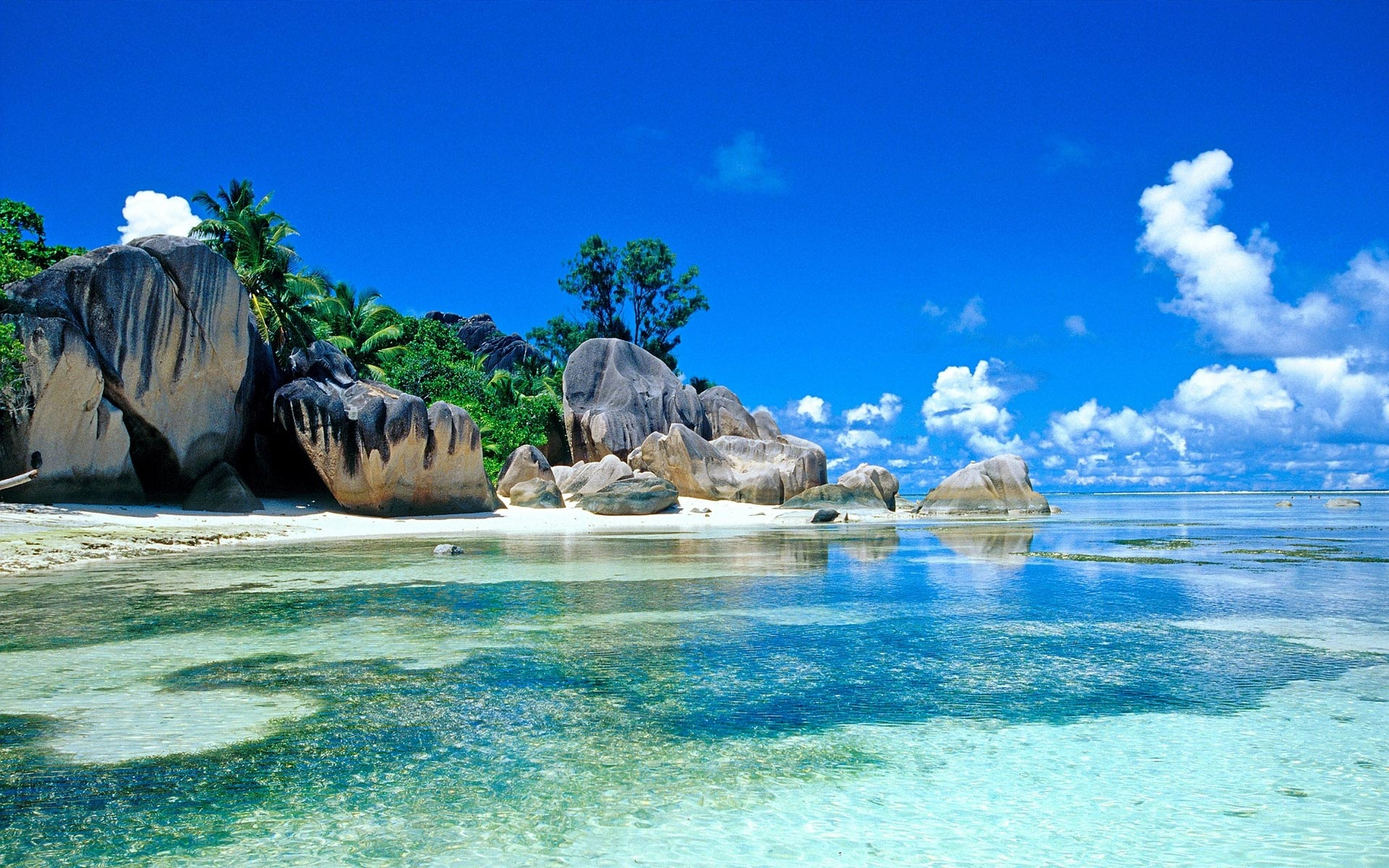
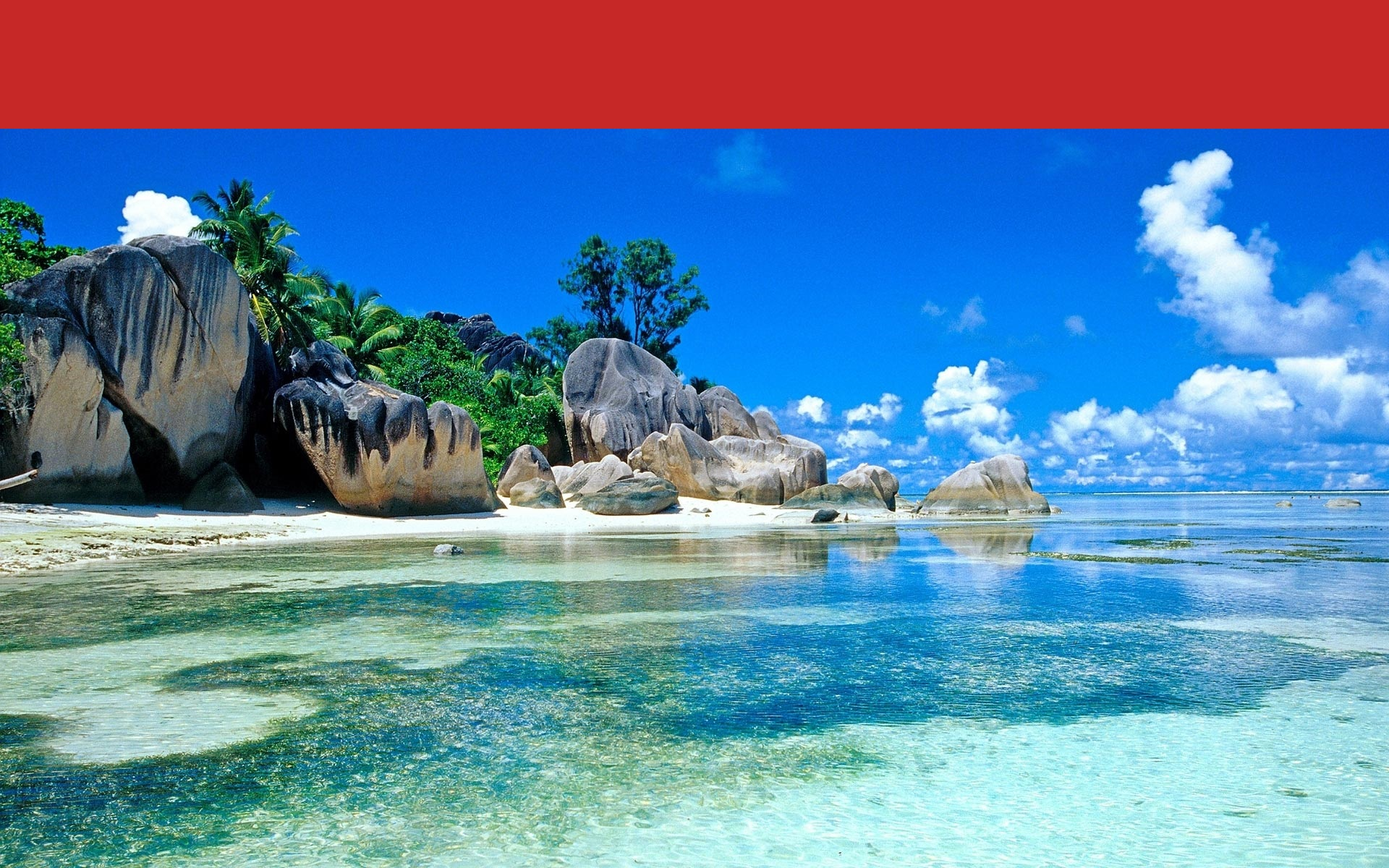
Add files via upload
Artículos añadidos, sección de comentarios terminada

Changed region(s): [[0.0, 0.0, 1.0, 0.1542]]

diff --git a/index.html b/index.html
@@ -20,10 +20,10 @@
           <img src="img/logo.png" alt="logo">
         </div>
         <div class="row buttons-nav col l10 m8 s7">
-            <a class="waves-effect waves-light btn-small">INICIO <i class="material-icons left tiny">home</i></a>
-            <a class="waves-effect waves-light btn-small">ESTUVE EN... <i class="material-icons left tiny">location_on</i></a>
-            <a class="waves-effect waves-light btn-small">MEJORES VIAJES <i class="material-icons left tiny">star</i></a>
-            <a class="waves-effect waves-light btn-small">RECOMENDACIONES <i class="material-icons left tiny">message</i></a>
+            <a class="waves-effect waves-light red darken-3 btn-small">INICIO <i class="material-icons left tiny">home</i></a>
+            <a class="waves-effect waves-light red darken-3 btn-small">ESTUVE EN... <i class="material-icons left tiny">location_on</i></a>
+            <a class="waves-effect waves-light red darken-3 btn-small">MEJORES VIAJES <i class="material-icons left tiny">star</i></a>
+            <a class="waves-effect waves-light red darken-3 btn-small">RECOMENDACIONES <i class="material-icons left tiny">message</i></a>
         </div>
         <div class="row titulo col l9 m8 s12">
           <h4>Viajando por el mundo</h4>
@@ -31,7 +31,7 @@
       </div>
     </div>
 
-    <div class="cuerpo row">
+    <div class="contenedor-secundario row">
       <div class="redes-sociales col l1 m1 hide-on-small-only">
         <a href="https://www.facebook.com/" class=" waves-effect waves-light"><img src="img/ico-facebook.png" alt="Facebook"></a>
         <a href="http://twitter.com/" class="waves-effect waves-light"><img src="img/ico-twitter.png" alt="Twitter"></a>
@@ -53,34 +53,129 @@
             <img class="z-depth-5" src="img/img-5.jpg" alt="Estatua de la libertad">
             <img class="z-depth-5" src="img/img-6.jpg" alt="La Casa de la Ópera en Sídney">
           </div>
-
+        </div>
+        <div class="contenedor-articulos row col l8 m8">
+          <div class="row articulo-1 card z-depth-4">
+            <div class="img-article row col l4 m4">
+              <img src="img/img-6.jpg" alt="">
+            </div>
+            <div class="contenido-articulo">
+              <h4>Casa de la Ópera de Sídney</h4>
+              <div class="chip">
+                <em>16 de abril de 2019</em><i class="material-icons right">calendar_today</i>
+              </div>
+              <div class="chip">
+                <em>Mendoza, Argentina</em><i class="material-icons right">place</i>
+              </div>
+              <p>La Ópera de Sídney o Casa de la Ópera de Sídney, situada en la ciudad de Sídney, estado de Nueva Gales del Sur, Australia, es uno de los edificios más famosos y distintivos del siglo xx. Declarado en 2007 Patrimonio de la Humanidad, fue diseñado por el arquitecto danés Jørn Utzon en 1957 e inaugurado el 20 de octubre de 1973 por su majestad la reina Isabel II, en su papel de reina de Australia.</p>
+              <p>En el edificio se realizan obras de teatro, ballet, ópera o producciones musicales. Es sede de la compañía Ópera Australia, la Compañía de Teatro de Sídney y la Orquesta Sinfónica de Sídney. Está administrada por la Opera House Trust, un organismo público bajo supervisión del Ministerio de Arte de Nueva Gales del Sur.</p>
+              <p>La Casa de la Ópera de Sídney es una construcción expresionista y con un diseño radicalmente innovador, conformado por una serie de grandes conchas prefabricadas, cada una tomada de la misma semiesfera, que forman los tejados de la estructura. El Teatro de la Ópera cubre 1,8 hectárea (4,5 acres de tierra). Tiene 185 metros (605 pies) de largo y alrededor de 120 metros (388 pies) de anchura máxima. Se apoya en 580 pilares hundidos hasta una profundidad de 25 metros bajo el nivel del mar. Su fuente de alimentación tiene una capacidad equivalente al consumo eléctrico de una ciudad de 25.000 personas. La energía es distribuida por 645 kilómetros de cable.1</p>
+              <p>Aunque a las estructuras de los tejados de la Casa de Ópera de Sídney se las denomina comúnmente como cáscaras (como en este artículo), éstas de hecho no lo son en el sentido arquitectónico de la palabra, ya que están formadas por paneles prefabricados de hormigón que se apoyan en costillas prefabricadas del mismo material</p>
+            </div>
           </div>
+          <div class="comentario card z-depth-4 red darken-3">
+            <p><strong>Deja tu comentario:</strong></p>
+            <div class="row">
+              <form class="col s12">
+                <div class="row">
+                  <div class="input-field col l5 m5 ">
+                    <i class="material-icons prefix">account_circle</i>
+                    <input id="icon_prefix" type="text" class="validate">
+                    <label for="icon_prefix">Nombre</label>
+                  </div>
+                  <div class="row">
+                    <div class="input-field col l5 m5 ">
+                      <i class="material-icons prefix">email</i>
+                      <input id="email" type="email" class="validate">
+                      <label for="email">Email</label>
+                    </div>
+                  </div>
 
+                </div>
+                <div class="row">
+                  <div class="input-field col l10 m10 ">
+                    <i class="material-icons prefix">comment</i>
+                    <textarea id="textarea2" class="materialize-textarea" data-length="120"></textarea>
+                    <label for="textarea2">Comentario</label>
+                  </div>
+                </div>
+                <button class="btn right waves-effect waves-light red darken-3" type="submit" name="action">Enviar
+                  <i class="material-icons right">send</i>
+                </button>
 
+              </div>
+            </div>
+            <div class="row articulo-2 card z-depth-4">
 
+              <div class="contenido-articulo col l8">
+                <h4>Estatua de la Libertad</h4>
+                <div class="chip">
+                  <em>21 de Marzo de 2019</em><i class="material-icons right">calendar_today</i>
+                </div>
+                <div class="chip">
+                  <em>Mendoza, Argentina</em><i class="material-icons right">place</i>
+                </div>
 
+                <p>La libertad iluminando el mundo (en inglés: Liberty Enlightening the World; en francés: La Liberté éclairant le monde), conocida como la Estatua de la Libertad, es uno de los monumentos más famosos de Nueva York, de los Estados Unidos y de todo el mundo. Se encuentra en la isla de la Libertad al sur de la isla de Manhattan, junto a la desembocadura del río Hudson y cerca de la isla Ellis. La Estatua de la Libertad fue un regalo del gobierno francés al gobierno estadounidense en 1886 para conmemorar el centenario de la Declaración de Independencia de los Estados Unidos y como un signo de amistad entre las dos naciones. Fue inaugurada el 28 de octubre de 1886 en presencia del presidente estadounidense de la época, Grover Cleveland. </p>
+              </div>
+              <div class="img-article row col l4 m4">
+                <img src="img/img-5.jpg" alt="">
+              </div>
+              <div class="row col l12">
+                <p>La estatua es obra del escultor francés Frédéric Auguste Bartholdi y la estructura interna fue diseñada por el ingeniero Alexandre Gustave Eiffel.2 El arquitecto francés Eugène Viollet-le-Duc se encargó de la elección de los cobres utilizados para la construcción de la estatua. El 15 de octubre de 1924, la estatua fue declarada como monumento nacional de los Estados Unidos y el 15 de octubre de 1965 se añadió la isla Ellis. Desde 1984 es considerada Patrimonio de la Humanidad por la Unesco.2
 
+                En el edificio se realizan obras de teatro, ballet, ópera o producciones musicales. Es sede de la compañía Ópera Australia, la Compañía de Teatro de Sídney y la Orquesta Sinfónica de Sídney. Está administrada por la Opera House Trust, un organismo público bajo supervisión del Ministerio de Arte de Nueva Gales del Sur.</p>
+                <p>La Estatua de la Libertad, además de ser un monumento importante en la ciudad de Nueva York, se convirtió en un símbolo en Estados Unidos y representa, en un plano más general, la libertad y emancipación con respecto a la opresión. Desde su inauguración en 1886, la estatua fue la primera visión que tenían los inmigrantes europeos al llegar a Estados Unidos tras su travesía por el océano Atlántico. En términos arquitectónicos, la estatua recuerda al famoso Coloso de Rodas, una de las siete maravillas del mundo antiguo. Fue nominada para las nuevas siete maravillas del mundo, donde resultó finalista. El nombre asignado por la Unesco es Monumento Nacional Estatua de la Libertad. Desde el 10 de junio de 1933 se encarga de su administración el Servicio de Parques Nacionales de los Estados Unidos.</p>
+              </div>
+            </div>
+            <div class="comentario card z-depth-4 red darken-3">
+              <p><strong>Deja tu comentario:</strong></p>
+              <div class="row">
+                <form class="col s12">
+                  <div class="row">
+                    <div class="input-field col l5 m5 ">
+                      <i class="material-icons prefix">account_circle</i>
+                      <input id="icon_prefix" type="text" class="validate">
+                      <label for="icon_prefix">Nombre</label>
+                    </div>
+                    <div class="row">
+                      <div class="input-field col l5 m5 ">
+                        <i class="material-icons prefix">email</i>
+                        <input id="email" type="email" class="validate">
+                        <label for="email">Email</label>
+                      </div>
+                    </div>
 
-
-
+                  </div>
+                  <div class="row">
+                    <div class="input-field col l10 m10 ">
+                      <i class="material-icons prefix">comment</i>
+                      <textarea id="textarea2" class="materialize-textarea" data-length="120"></textarea>
+                      <label for="textarea2">Comentario</label>
+                    </div>
+                  </div>
+                  <button class="btn right waves-effect waves-light red darken-3" type="submit" name="action">Enviar
+                    <i class="material-icons right">send</i>
+                  </button>
+                </div>
+              </div>
+          </div>
+          <div class="autor row col l3 m3 hide-on-small-only">
+            <div class="row card z-depth-4 col l12 m12 ">
+              <div class="row col l10 m10 offset-l1 offset-m1">
+                <img src="img/img-autor.jpg" alt="" class="circle responsive-img">
+              </div>
+              <div class="row">
+                <h5>Perfil del Autor</h5>
+              </div>
+              <hr>
+              <div class="row">
+                <p>Lorem ipsum dolor sit amet, consectetur adipisicing elit, sed do eiusmod tempor incididunt ut labore et dolore magna aliqua. Ut enim ad minim veniam, quis nostrud exercitation ullamco laboris nisi ut aliquip ex ea commodo consequat. Duis aute irure dolor in reprehenderit in voluptate velit esse cillum dolore eu fugiat nulla pariatur. Excepteur sint occaecat cupidatat non proident, sunt in culpa qui officia deserunt mollit anim id est laborum.</p>
+              </div>
+            </div>
+          </div>
         </div>
-        <div class="articulo-1">
-
-        </div>
-        <div class="comentario">
-
-        </div>
-        <div class="articulo-2">
-
-        </div>
-
       </div>
-    </div>
-
-
-
-
-
 
     <!--#########################################################################-->
     <script type="text/javascript" src="https://code.jquery.com/jquery-2.1.1.min.js"></script>

diff --git a/css/estilos_personalizados.css b/css/estilos_personalizados.css
@@ -4,12 +4,10 @@ body{
   background-size: cover;
   background-repeat: no-repeat;
 }
-
 .logo img{
   margin: 5%;
   width: 100%;
   border-radius: 20px!important;
-
 }
 .buttons-nav a{
   margin: 1%;
@@ -17,31 +15,49 @@ body{
 .buttons-nav{
   text-align: right;
 }
-h4{
+.titulo h4{
   color: white;
 }
 .redes-sociales{
-  height: 3000px;
+  height: 2000px;
 
 }
 .redes-sociales img{
   width: 50px;
   margin: 1%;
 }
-.galeria{
-
-}
 .galeria img{
   width: 100%;
 }
-
+.img-article img{
+  width: 90%;
+  margin: 3%;
+}
+.contenido-articulo{
+  padding: 1%;
+}
+.comentario{
+  padding-left: 6%;
+  padding-right: 6%;
+  padding-bottom: 0.5%;
+  color: white;
+}
+.autor img{
+  padding: 5%;
+}
+.autor h5{
+  text-align: center;
+}
+.autor p{
+  padding: 5%;
+  text-align: center;
+}
 @media (max-width: 760px){
   .redes-sociales img{
     width: 35px;
     margin: 0.5%;
   }
 }
-
 @media (max-width: 420px){
   .buttons-nav a{
     margin: 3%;
